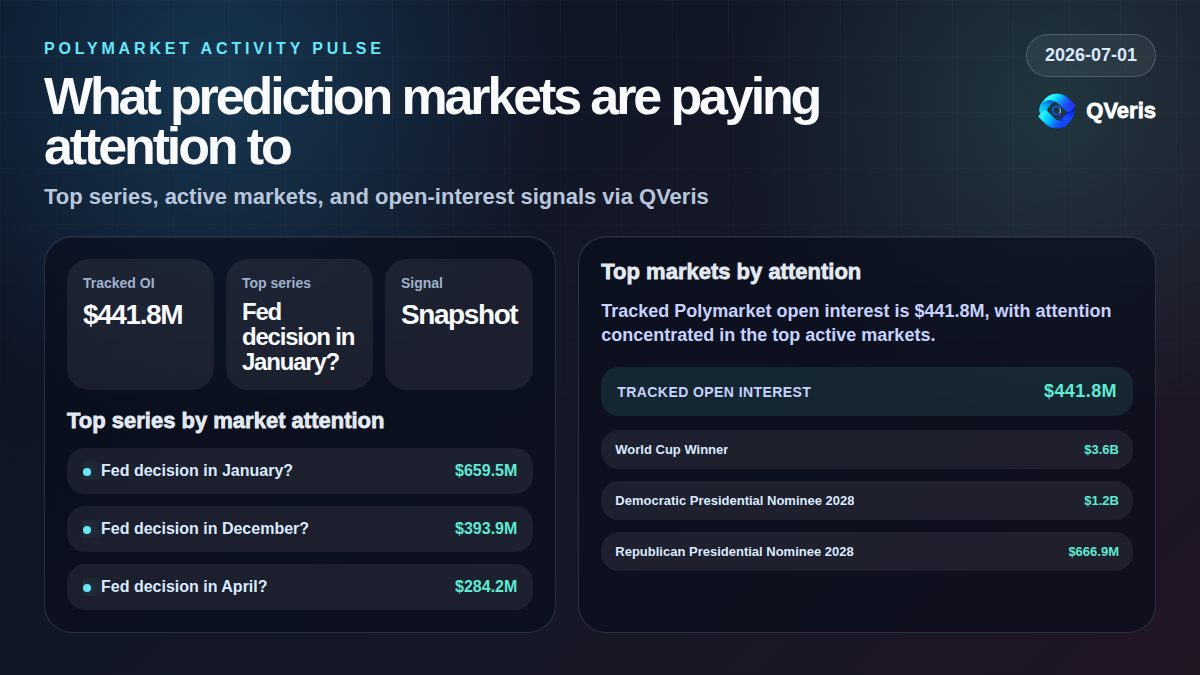
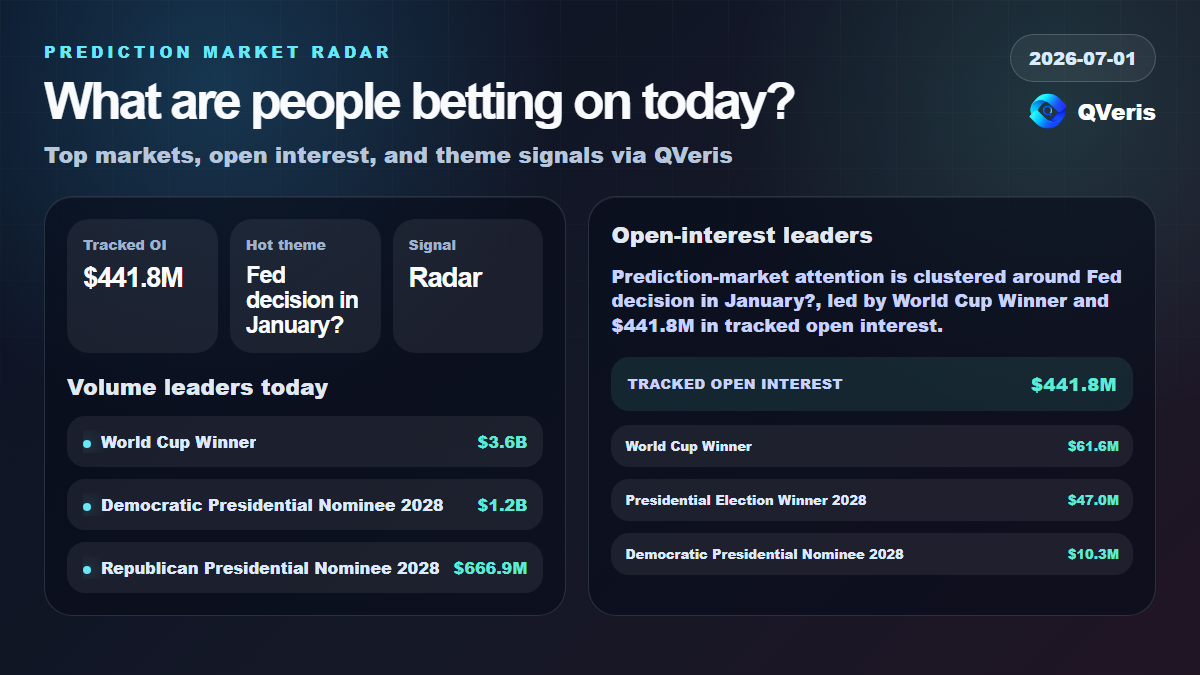
feat: upgrade polymarket pulse to prediction market radar

diff --git a/scripts/templates/polymarket_pulse_template.html b/scripts/templates/polymarket_pulse_template.html
@@ -208,25 +208,25 @@
       <div class="date">{{DATE}}</div>
       <span class="brand"><img src="{{LOGO}}" /> QVeris</span>
       <header>
-        <p class="eyebrow">Polymarket Activity Pulse</p>
-        <h1>What prediction markets are paying attention to</h1>
-        <div class="subtitle">Top series, active markets, and open-interest signals via QVeris</div>
+        <p class="eyebrow">Prediction Market Radar</p>
+        <h1>What are people betting on today?</h1>
+        <div class="subtitle">Top markets, open interest, and theme signals via QVeris</div>
       </header>
       <section class="content">
         <div class="panel">
           <div class="metrics">
             <div class="metric"><span>Tracked OI</span><strong>{{VOLUME}}</strong></div>
-            <div class="metric"><span>Top series</span><strong class="small">{{TOP_THEME}}</strong></div>
+            <div class="metric"><span>Hot theme</span><strong class="small">{{TOP_THEME}}</strong></div>
             <div class="metric"><span>Signal</span><strong>{{ACTIVITY_LABEL}}</strong></div>
           </div>
-          <h2 class="sideTitle">Top series by market attention</h2>
-          <ul class="themeList">{{TOP_THEMES}}</ul>
+          <h2 class="sideTitle">Volume leaders today</h2>
+          <ul class="themeList">{{TOP_VOLUME_MARKETS}}</ul>
         </div>
         <aside class="panel">
-          <h2 class="sideTitle">Top markets by attention</h2>
+          <h2 class="sideTitle">Open-interest leaders</h2>
           <p class="takeaway">{{TAKEAWAY}}</p>
           <div class="oiStrip"><span>Tracked open interest</span><b>{{OPEN_INTEREST}}</b></div>
-          <ul class="marketList">{{TOP_MARKETS}}</ul>
+          <ul class="marketList">{{TOP_OPEN_INTEREST_MARKETS}}</ul>
         </aside>
       </section>
       <footer>

diff --git a/src/app/page.tsx b/src/app/page.tsx
@@ -33,6 +33,7 @@ function categoryKey(post: Post) {
   if (post.contentType === "MARKET PULSE") return "market-pulse";
   if (post.contentType === "FCF YIELD") return "fcf-yield";
   if (post.contentType === "POLYMARKET PULSE") return "polymarket-pulse";
+  if (post.contentType === "PREDICTION MARKET RADAR") return "polymarket-pulse";
   return null;
 }
 
@@ -51,7 +52,7 @@ const categories = [
   },
   {
     key: "polymarket-pulse",
-    label: "Polymarket Pulse",
+    label: "Prediction Radar",
     count: activePosts.filter((post) => categoryKey(post) === "polymarket-pulse").length,
   },
   { key: "earnings", label: "Earnings", count: 0 },

diff --git a/scripts/generate_polymarket_pulse_tweet.py b/scripts/generate_polymarket_pulse_tweet.py
@@ -1,4 +1,4 @@
-"""Generate the Polymarket activity pulse tweet and archive card."""
+"""Generate the Prediction Market Radar tweet and archive card."""
 
 from __future__ import annotations
 
@@ -38,31 +38,47 @@ def short_text(value: object, limit: int) -> str:
     return text[: limit - 3].rstrip() + "..."
 
 
+def first_title(rows: list[dict], fallback: str) -> str:
+    if not rows:
+        return fallback
+    return str(rows[0].get("title") or fallback)
+
+
 def format_tweet(data: dict) -> str:
     open_interest = money_short(float(data.get("open_interest", 0)))
-    top_theme = short_text((data.get("top_themes") or [{}])[0].get("theme", "General"), 38)
+    top_theme = short_text(
+        data.get("hot_theme") or (data.get("top_themes") or [{}])[0].get("theme", "General"),
+        38,
+    )
     top_market = short_text(
-        (data.get("top_markets") or [{}])[0].get("title", "Market detail pending"),
+        (data.get("hottest_market") or {}).get("title")
+        or first_title(data.get("top_volume_markets") or data.get("top_markets") or [], "Market detail pending"),
         42,
     )
+    top_oi_market = short_text(
+        first_title(data.get("top_open_interest_markets") or data.get("top_markets") or [], top_market),
+        42,
+    )
+
     lines = [
-        "Prediction markets are becoming a real-time attention layer 👀",
+        "What are people betting on today? 👀",
         "",
-        "Polymarket pulse via QVeris:",
+        "Prediction Market Radar via QVeris:",
         f"💰 Tracked OI: {open_interest}",
-        f"📌 Active series: {top_theme}",
-        f"🔥 Top market: {top_market}",
+        f"🔥 Hottest market: {top_market}",
+        f"📌 Hot theme: {top_theme}",
+        f"📊 Top OI: {top_oi_market}",
         "",
         f"Live market data -> research-ready signals ⚡ {WEBSITE_URL}",
     ]
     tweet = "\n".join(lines)
     if len(tweet) > 280:
         lines = [
-            "Polymarket pulse via QVeris 👀",
+            "Prediction Market Radar via QVeris 👀",
             "",
             f"💰 Tracked OI: {open_interest}",
-            f"📌 Series: {short_text(top_theme, 30)}",
             f"🔥 Market: {short_text(top_market, 34)}",
+            f"📌 Theme: {short_text(top_theme, 30)}",
             "",
             f"Signals from live market data: {WEBSITE_URL}",
         ]
@@ -86,18 +102,20 @@ def archive_post(data: dict, tweet_text: str) -> None:
         "date": data["date"],
         "runDate": data["date"],
         "createdAt": datetime.now(timezone.utc).isoformat(),
-        "contentType": "POLYMARKET PULSE",
-        "title": "Polymarket Activity Pulse",
+        "contentType": "PREDICTION MARKET RADAR",
+        "title": "Prediction Market Radar",
         "status": "ready",
         "tweet": tweet_text,
         "image": f"/posts/{public_image.name}",
         "dataSource": data.get("source", "QVeris API"),
         "dataUpdatedAt": data.get("updated_at", ""),
         "xPostId": None,
-        "primaryLabel": "Top series",
-        "primaryValue": str((data.get("top_themes") or [{}])[0].get("theme", "General"))[:32],
-        "secondaryLabel": "Top market",
-        "secondaryValue": str((data.get("top_markets") or [{}])[0].get("title", "Pending"))[:32],
+        "primaryLabel": "Hot theme",
+        "primaryValue": str(data.get("hot_theme") or (data.get("top_themes") or [{}])[0].get("theme", "General"))[:32],
+        "secondaryLabel": "Hottest market",
+        "secondaryValue": str(
+            (data.get("hottest_market") or (data.get("top_markets") or [{}])[0]).get("title", "Pending")
+        )[:32],
         "topSymbol": "PM",
         "topChangePct": float(data.get("volume_change_pct", 0)),
         "polymarketPulse": data,
@@ -107,7 +125,7 @@ def archive_post(data: dict, tweet_text: str) -> None:
         post
         for post in posts
         if post.get("id") != record["id"]
-        and post.get("contentType") not in {"PREDICTION MARKET", "WORLD CUP FINANCE"}
+        and post.get("contentType") not in {"POLYMARKET PULSE", "PREDICTION MARKET", "WORLD CUP FINANCE"}
     ]
     posts.append(record)
     posts.sort(key=lambda post: (post["date"], post.get("createdAt", "")), reverse=True)
@@ -123,7 +141,7 @@ def main() -> None:
     TWEET_PREVIEW_FILE.write_text(tweet_text, encoding="utf-8")
     archive_post(data, tweet_text)
 
-    print("==== Polymarket tweet preview ====")
+    print("==== Prediction Market Radar tweet preview ====")
     print(tweet_text)
     print(f"Characters: {len(tweet_text)}")
     print("Status: ready")

diff --git a/scripts/generate_polymarket_pulse_image.py b/scripts/generate_polymarket_pulse_image.py
@@ -1,4 +1,4 @@
-"""Render the Polymarket activity pulse card as a 1200x675 PNG."""
+"""Render the Prediction Market Radar card as a 1200x675 PNG."""
 
 from __future__ import annotations
 
@@ -60,13 +60,15 @@ def series_bars(series: list[dict]) -> str:
     return "\n".join(bars)
 
 
-def top_markets_html(markets: list[dict]) -> str:
+def market_rows_html(markets: list[dict], metric: str = "rank_value") -> str:
     if not markets:
         return '<li><span>Market detail</span><b>Not returned</b></li>'
     rows = []
     for market in markets[:3]:
         activity = float(
-            market.get("activity")
+            market.get(metric)
+            or market.get("rank_value")
+            or market.get("activity")
             or market.get("open_interest")
             or market.get("volume")
             or 0
@@ -78,7 +80,7 @@ def top_markets_html(markets: list[dict]) -> str:
     return "\n".join(rows)
 
 
-def top_themes_html(themes: list[dict]) -> str:
+def theme_rows_html(themes: list[dict]) -> str:
     if not themes:
         return '<li><span>Theme detail</span><b>Not returned</b></li>'
     rows = []
@@ -94,17 +96,17 @@ def render_html(data: dict) -> str:
     template = TEMPLATE_FILE.read_text(encoding="utf-8")
     change = float(data.get("volume_change_pct", 0))
     change_class = "positive" if change >= 0 else "negative"
-    top_theme = (data.get("top_themes") or [{}])[0].get("theme", "General")
-    top_market = (data.get("top_markets") or [{}])[0].get("title", "Market detail pending")
+    top_theme = data.get("hot_theme") or (data.get("top_themes") or [{}])[0].get("theme", "General")
+    top_market = (
+        (data.get("hottest_market") or {}).get("title")
+        or (data.get("top_markets") or [{}])[0].get("title", "Market detail pending")
+    )
     open_interest = float(data.get("open_interest", 0))
     headline_value = open_interest or float(data.get("current_volume", 0))
-    activity_label = "Snapshot" if open_interest else str(data.get("activity_label", "Stable"))
-    takeaway = (
-        f"Tracked Polymarket open interest is {money_short(open_interest)}, "
-        "with attention concentrated in the top active markets."
-        if open_interest
-        else str(data.get("takeaway", ""))
-    )
+    activity_label = "Radar" if open_interest else str(data.get("activity_label", "Stable"))
+    takeaway = str(data.get("insight") or data.get("takeaway") or "")
+    top_volume_markets = data.get("top_volume_markets") or data.get("top_markets", [])
+    top_open_interest_markets = data.get("top_open_interest_markets") or data.get("top_markets", [])
     return (
         template.replace("{{DATE}}", html.escape(data["date"]))
         .replace("{{VOLUME}}", html.escape(money_short(headline_value)))
@@ -116,8 +118,10 @@ def render_html(data: dict) -> str:
         .replace("{{OPEN_INTEREST}}", html.escape(money_short(open_interest)))
         .replace("{{TAKEAWAY}}", html.escape(takeaway))
         .replace("{{BARS}}", series_bars(data.get("volume_series", [])))
-        .replace("{{TOP_THEMES}}", top_themes_html(data.get("top_themes", [])))
-        .replace("{{TOP_MARKETS}}", top_markets_html(data.get("top_markets", [])))
+        .replace("{{TOP_THEMES}}", theme_rows_html(data.get("top_themes", [])))
+        .replace("{{TOP_VOLUME_MARKETS}}", market_rows_html(top_volume_markets, "volume"))
+        .replace("{{TOP_OPEN_INTEREST_MARKETS}}", market_rows_html(top_open_interest_markets, "open_interest"))
+        .replace("{{TOP_MARKETS}}", market_rows_html(data.get("top_markets", [])))
         .replace("{{SOURCE}}", html.escape(data.get("source", "QVeris API")))
         .replace("{{LOGO}}", get_logo_data_url())
     )

diff --git a/scripts/fetch_polymarket_pulse.py b/scripts/fetch_polymarket_pulse.py
@@ -353,6 +353,38 @@ def takeaway(label: str, change: float, open_interest: float) -> str:
     return f"Polymarket activity is {label.lower()} with volume {direction} versus the prior point."
 
 
+def ranked_markets(markets: list[dict[str, Any]], metric: str, limit: int = 3) -> list[dict[str, Any]]:
+    rows = []
+    for market in markets:
+        value = as_float(market.get(metric))
+        if value <= 0 and metric != "activity":
+            continue
+        if value <= 0:
+            value = as_float(market.get("open_interest")) or as_float(market.get("volume"))
+        if value <= 0:
+            continue
+        row = dict(market)
+        row["rank_metric"] = metric
+        row["rank_value"] = value
+        rows.append(row)
+    rows.sort(key=lambda item: item["rank_value"], reverse=True)
+    return rows[:limit]
+
+
+def radar_takeaway(top_theme: str, hot_market: str, open_interest: float) -> str:
+    if top_theme and hot_market:
+        return (
+            f"Prediction-market attention is clustered around {top_theme}, "
+            f"led by {hot_market} and {money_short(open_interest)} in tracked open interest."
+        )
+    if hot_market:
+        return (
+            f"{hot_market} is the top active prediction market, "
+            f"with {money_short(open_interest)} in tracked open interest."
+        )
+    return takeaway("Snapshot", 0.0, open_interest)
+
+
 def fetch_volume() -> dict[str, Any]:
     last_error = None
     parameter_sets = [
@@ -510,12 +542,21 @@ def main() -> dict[str, Any]:
 
     now = datetime.now(timezone.utc)
     run_now = datetime.now(RUN_TIMEZONE)
+    top_volume_markets = ranked_markets(market_candidates, "volume") or ranked_markets(market_candidates, "activity")
+    top_open_interest_markets = (
+        ranked_markets(top_markets or market_candidates, "open_interest")
+        or ranked_markets(market_candidates, "activity")
+    )
+    hottest_market = (top_volume_markets or ranked_markets(market_candidates, "activity") or top_open_interest_markets or [{}])[0]
+    hot_theme = (top_themes or [{}])[0].get("theme", "General")
+    top_market_title = str(hottest_market.get("title") or "Market detail pending")
+    radar_summary = radar_takeaway(str(hot_theme), top_market_title, open_interest_total)
     output = {
         "updated_at": now.isoformat(),
         "date": run_now.strftime("%Y-%m-%d"),
         "run_timezone": "Asia/Shanghai",
         "source": "QVeris API via Polymarket",
-        "title": "Polymarket Activity Pulse",
+        "title": "Prediction Market Radar",
         "current_volume": current_volume,
         "previous_volume": previous_volume,
         "volume_change_pct": volume_change,
@@ -523,10 +564,15 @@ def main() -> dict[str, Any]:
         "open_interest": open_interest_total,
         "top_themes": top_themes,
         "top_markets": market_candidates,
+        "hottest_market": hottest_market,
+        "hot_theme": hot_theme,
+        "top_volume_markets": top_volume_markets,
+        "top_open_interest_markets": top_open_interest_markets,
+        "insight": radar_summary,
         "volume_series": volume_series,
         "builder_volume_series": builder_volume_series,
         "volume_available": bool(open_interest_total or volume_payload),
-        "takeaway": takeaway(label, volume_change, open_interest_total),
+        "takeaway": radar_summary,
         "debug": FETCH_DEBUG
         + [
             {
